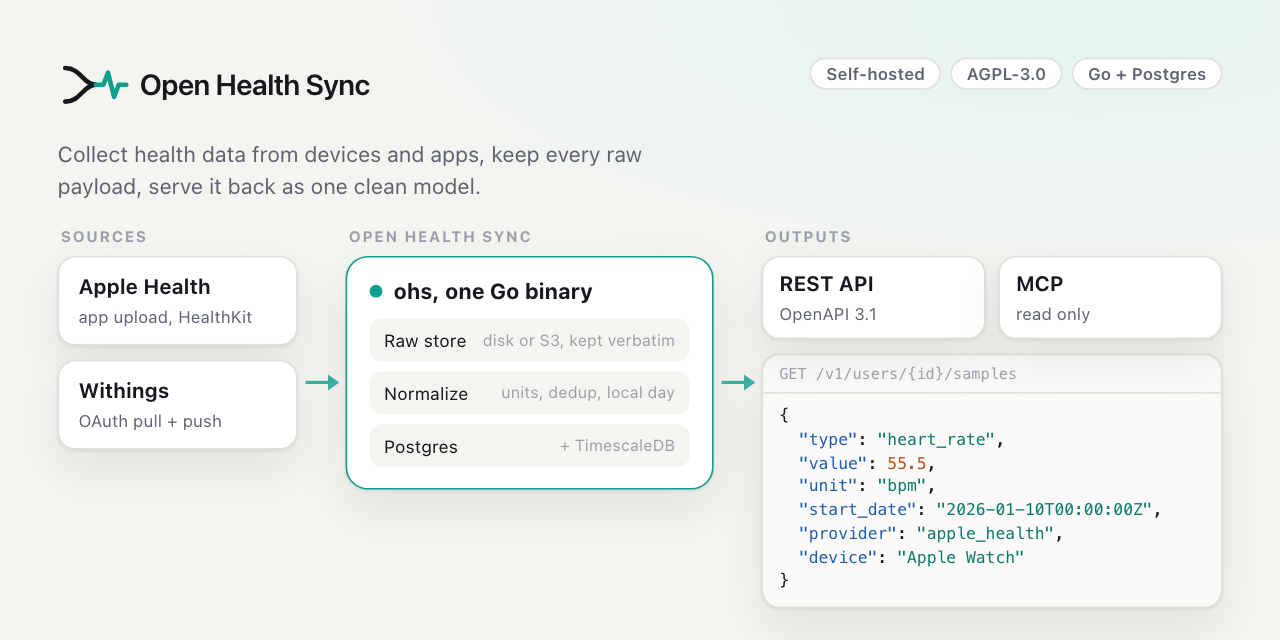
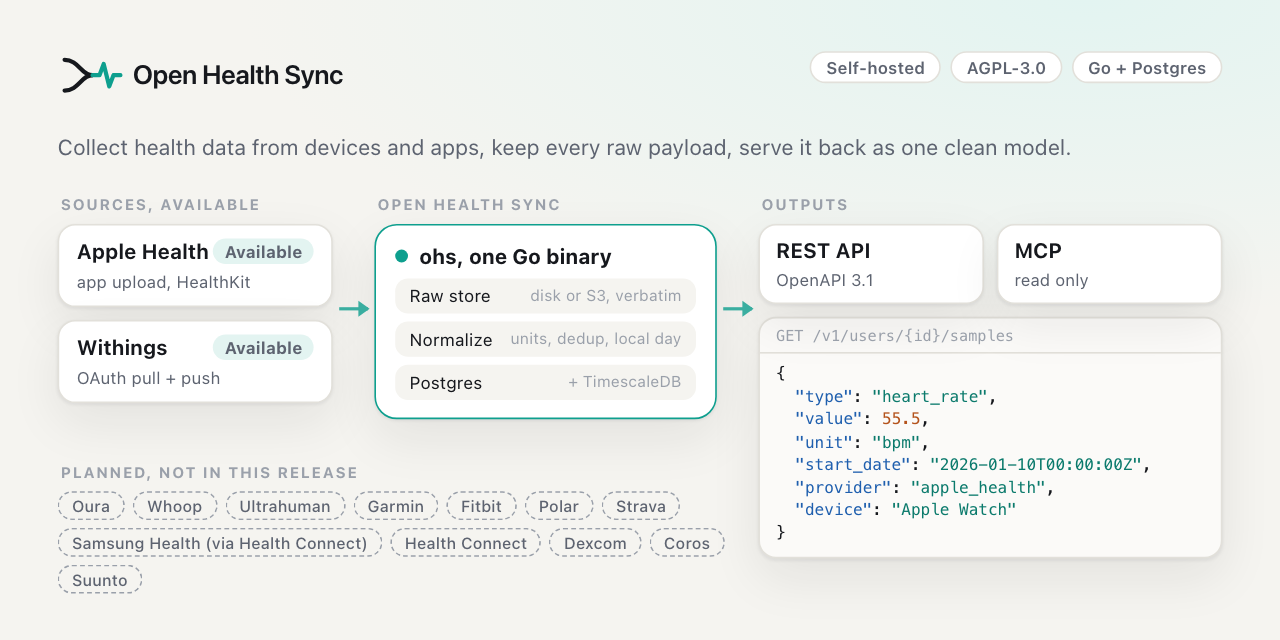
docs: planned providers and integration paths (#15)
Add docs/connectors/README.md with the supported and planned sources:
status, integration path (cloud API, partner program, on-device), data
types, access notes and tracking issues. Only Apple Health and Withings
are available. The README sources table lists every planned source with
an honest status, and the hero and social preview show them as planned
chips next to the two available cards.

diff --git a/docs/connectors/README.md b/docs/connectors/README.md
@@ -1,0 +1,57 @@
+# Connectors
+
+A connector teaches Open Health Sync one source. Two ship in v0.0.1: [Apple Health](apple-health.md)
+and [Withings](withings.md). Every other source below is **planned**: it is not in this release,
+and no code for it runs today. To build one, start with
+[writing a connector](../writing-a-connector.md).
+
+## Supported and planned sources
+
+Status:
+
+- **Available**: ships in this release.
+- **Planned**: on the roadmap, not built yet.
+- **Via Health Connect**: no server-side path we intend to use; the data would come through
+  Android's Health Connect and the planned Kotlin SDK. Planned, not built yet.
+- **No public API**: the vendor publishes no official API we can build on.
+
+Integration paths, as checked in October 2026 (vendors change their programs, so check the
+linked tracking issue or the vendor's developer site before you start):
+
+- **Cloud API, OAuth**: the server pulls from the vendor's cloud with the user's consent, and
+  may receive webhooks. A self-hosted instance needs its own developer app with the vendor.
+- **Partner program**: a cloud API, but only for companies the vendor approves.
+- **On-device**: the data lives on the phone (HealthKit on iOS, Health Connect or a vendor SDK
+  on Android). A mobile app has to read it and upload it.
+
+| Provider | Status | Integration path | Data types | Notes | Tracking |
+|---|---|---|---|---|---|
+| Apple Health | Available | On-device (HealthKit). Your iOS app uploads gzip NDJSON parts to `POST /v1/ingest/apple-health` | Quantities, categories, sleep, workouts and routes, nutrition; ECG and heartbeat series stored | No SDK ships yet: your app implements the [upload contract](apple-health.md). A Swift SDK is planned. Data that other apps and devices write to HealthKit arrives this way too | |
+| Withings | Available, not yet verified with a real account | Cloud API, OAuth 2.0, scheduled pulls and push notifications | Body measurements, activity, sleep, workouts, ECG | Bring your own Withings developer app ([guide](withings.md)) | |
+| Oura | Planned | Cloud API v2, OAuth 2.0 | Sleep, readiness, activity, heart rate, SpO2, workouts | Personal access tokens were retired at the end of 2025. Gen3 and later rings need an active Oura Membership for API access. An app needs Oura's approval past its first 10 users | [#5](https://github.com/soma-intelligence/open-health-sync/issues/5) |
+| Whoop | Planned | Cloud API v2, OAuth 2.0, webhooks (recovery, sleep, workout) | Recovery, sleep, cycles (strain), workouts, body measurements | App registered in the WHOOP Developer Dashboard. The public API has no raw heart rate series or ECG | [#6](https://github.com/soma-intelligence/open-health-sync/issues/6) |
+| Ultrahuman | Planned | Partner program (UltraSignal partner API), OAuth 2.0 | Sleep, HRV, skin temperature, recovery; glucose with the M1 patch | Not self-serve: companies apply and are onboarded. We could not confirm that new partners are accepted | |
+| Garmin | Planned | Partner program (Garmin Connect Developer Program: Health and Activity APIs), push and pull | Daily summaries, sleep, stress, heart rate, activities | For approved business developers only; some data needs a commercial license fee. Third parties report that new applications were paused in 2026: not confirmed by Garmin | [#9](https://github.com/soma-intelligence/open-health-sync/issues/9) |
+| Fitbit | Planned | Cloud API in transition: the legacy Fitbit Web API is replaced by the Google Health API | Activity, sleep, heart rate, SpO2, body | Google: support for the legacy Web API ends on 2026-09-30 and it is turned off on 2026-10-30. The Google Health API is not onboarding new projects yet. On Android, Fitbit data can also reach Health Connect | [#9](https://github.com/soma-intelligence/open-health-sync/issues/9) |
+| Polar | Planned | Cloud API (AccessLink v3), OAuth 2.0 | Exercises, daily activity, sleep, nightly recharge, physical info | Self-serve: a client is created at `admin.polaraccesslink.com` with a Polar Flow account; each user is registered after consent | [#8](https://github.com/soma-intelligence/open-health-sync/issues/8) |
+| Strava | Planned | Cloud API v3, OAuth 2.0, webhooks | Activities (workouts, streams, routes) | A new app serves 1 athlete, 10 after a self-upgrade, more after Strava's review. Webhooks are required to learn about deauthorizations. The 2026 API terms forbid AI training on API data and restrict intermediary platforms; third parties report a paid Strava subscription is now needed for API access | [#7](https://github.com/soma-intelligence/open-health-sync/issues/7) |
+| Coros | Planned | Cloud API, OAuth 2.0; a partner API with webhooks for established platforms | Activities, health metrics, fitness assessments | Partner access is requested from COROS (api@coros.com); full docs are shared after registration | |
+| Suunto | Planned | Partner program (Suunto Cloud API) | Workouts and activity | Companies apply to Suunto's partner program; current terms are not public | |
+| Dexcom | Planned | Cloud API v3, OAuth 2.0 (scope `offline_access`) | Estimated glucose values (EGVs), events, calibrations, devices, alerts | Free sandbox; production beyond a few users needs Dexcom's approval. Separate hosts for the US, EU and Japan | |
+| FreeStyle Libre, Omron | Planned | Not researched yet | Glucose; blood pressure | Contributions of research notes are welcome | |
+| Health Connect | Planned | On-device (Android). Needs the planned Kotlin SDK in your Android app | Steps, heart rate, sleep, exercise, nutrition, body measurements and more | By default an app reads back only 30 days before its first permission grant; older data needs the history permission. Many Android apps write here, which is how Samsung Health, Fitbit and Zepp data can reach it | |
+| Samsung Health | Via Health Connect | On-device only: the Samsung Health Data SDK (partner approval needed to distribute), or Health Connect, which Samsung Health writes to | Activity, sleep, heart rate, skin temperature | The older Samsung Health SDK for Android was deprecated on 2025-07-31. We plan to read Samsung Health data through Health Connect, which needs no Samsung partnership | |
+| Google Fit | Deprecated by Google, use Health Connect (planned Kotlin SDK) | None to build on | | Google closed sign-ups on 2024-05-01 and supports the Fit APIs only until the end of 2026. It points Android apps to Health Connect and cloud apps to the Google Health API | |
+| Zepp / Amazfit | Via Health Connect | On-device: the Zepp app writes to Health Connect on Android and to Apple Health on iOS | Steps, heart rate, sleep, workouts, calories | We found no official public API. On iPhone, what the Zepp app writes to HealthKit is ordinary Apple Health data | |
+| Eight Sleep | No public API | None | | Eight Sleep publishes no official developer API. Community clients call the private app API, which is unsupported and can change without notice; we will not build on it | |
+
+## Contributing a connector
+
+The open connector issues are labeled
+[`connector`](https://github.com/soma-intelligence/open-health-sync/issues?q=is%3Aissue%20is%3Aopen%20label%3Aconnector),
+and the smaller ones
+[`good first issue`](https://github.com/soma-intelligence/open-health-sync/issues?q=is%3Aissue%20is%3Aopen%20label%3A%22good%20first%20issue%22).
+Read [writing a connector](../writing-a-connector.md) first, and use the
+[connector request form](https://github.com/soma-intelligence/open-health-sync/issues/new/choose)
+for a source that is not listed. Tests use recorded fixtures with invented values and a fake of
+the provider API; no test calls a real provider.

diff --git a/README.md b/README.md
@@ -1,7 +1,7 @@
 <a href="#quickstart">
 <picture>
   <source media="(prefers-color-scheme: dark)" srcset="docs/assets/readme/hero-dark.png">
-  <img src="docs/assets/readme/hero-light.png" width="100%" alt="Open Health Sync: Apple Health and Withings flow into one Go binary (raw store, normalize, Postgres) and out as a REST API and a read-only MCP server. The JSON shown is a real heart rate sample read back from the API.">
+  <img src="docs/assets/readme/hero-light.png" width="100%" alt="Open Health Sync: Apple Health and Withings, the two available sources, flow into one Go binary (raw store, normalize, Postgres) and out as a REST API and a read-only MCP server. Oura, Whoop, Ultrahuman, Garmin, Fitbit, Polar, Strava, Samsung Health via Health Connect, Health Connect, Dexcom, Coros and Suunto are listed as planned, not in this release. The JSON shown is a real heart rate sample read back from the API.">
 </picture>
 </a>
 
@@ -101,19 +101,38 @@ Open Health Sync is that layer, written once, with the boring parts done properl
 
 ### Sources and outputs
 
-| Area | Item | Status |
-|---|---|---|
-| Sources | Apple Health (your iOS app uploads HealthKit data, [contract](docs/connectors/apple-health.md)) | Available |
-| Sources | Withings (OAuth, scheduled pulls, push notifications, [guide](docs/connectors/withings.md)) | Available, not yet verified with a real account |
-| Sources | Oura, Whoop, Ultrahuman, Garmin, Fitbit, Polar, Strava, Coros, Suunto | Planned |
-| Sources | Dexcom, Libre, Omron; Health Connect through the Android SDK | Planned |
-| Outputs | REST JSON, described by [api/openapi.yaml](api/openapi.yaml) | Available |
-| Outputs | MCP server, read only ([docs/mcp.md](docs/mcp.md)) | Available |
-| Outputs | Read routes for ECG recordings and heartbeat (RR) series, which are stored today | Planned |
-| Outputs | Outgoing webhooks, FHIR R4, Open mHealth, CSV and Parquet exports | Planned |
-| SDKs | Swift, Kotlin, React Native, Flutter | Planned |
+Two sources ship today. Every other one is planned: on the roadmap, not in this release.
+Integration paths, vendor programs and tracking issues for each:
+[docs/connectors](docs/connectors/README.md).
 
-Planned means on the roadmap and not in this release.
+| Source | Status | How the data arrives |
+|---|---|---|
+| Apple Health | ✅ Available | your iOS app uploads HealthKit data ([contract](docs/connectors/apple-health.md)) |
+| Withings | ✅ Available, not yet verified with a real account | OAuth, scheduled pulls, push notifications ([guide](docs/connectors/withings.md)) |
+| Oura | 🛠 Planned ([#5](https://github.com/soma-intelligence/open-health-sync/issues/5)) | cloud API, OAuth |
+| Whoop | 🛠 Planned ([#6](https://github.com/soma-intelligence/open-health-sync/issues/6)) | cloud API, OAuth, webhooks |
+| Strava | 🛠 Planned ([#7](https://github.com/soma-intelligence/open-health-sync/issues/7)) | cloud API, OAuth, webhooks |
+| Polar | 🛠 Planned ([#8](https://github.com/soma-intelligence/open-health-sync/issues/8)) | cloud API (AccessLink), OAuth |
+| Garmin, Fitbit | 🛠 Planned ([#9](https://github.com/soma-intelligence/open-health-sync/issues/9)) | partner program (Garmin); Fitbit Web API moving to the Google Health API |
+| Ultrahuman, Suunto | 🛠 Planned | partner programs |
+| Coros, Dexcom | 🛠 Planned | cloud API, OAuth |
+| FreeStyle Libre, Omron | 🛠 Planned | not researched yet |
+| Health Connect | 🛠 Planned | on-device, through the planned Kotlin SDK |
+| Samsung Health, Zepp / Amazfit | 🛠 Planned, via Health Connect | their apps write to Health Connect on Android |
+| Google Fit | Deprecated by Google | use Health Connect (planned Kotlin SDK) |
+| Eight Sleep | No public API | nothing official to build on |
+
+Want one sooner? Connectors are self-contained: read
+[writing a connector](docs/writing-a-connector.md) and pick a
+[good first issue](https://github.com/soma-intelligence/open-health-sync/issues?q=is%3Aissue%20is%3Aopen%20label%3A%22good%20first%20issue%22).
+
+| Output | Status |
+|---|---|
+| REST JSON, described by [api/openapi.yaml](api/openapi.yaml) | ✅ Available |
+| MCP server, read only ([docs/mcp.md](docs/mcp.md)) | ✅ Available |
+| Read routes for ECG recordings and heartbeat (RR) series, which are stored today | 🛠 Planned |
+| Outgoing webhooks, FHIR R4, Open mHealth, CSV and Parquet exports | 🛠 Planned |
+| SDKs: Swift, Kotlin, React Native, Flutter | 🛠 Planned |
 
 ## Quickstart
 
@@ -329,7 +348,8 @@ Anything that writes to Apple Health (Apple Watch, iPhone, and the apps and devi
 into HealthKit), through an iOS app that uploads it. No SDK ships yet: your app implements the
 [upload contract](docs/connectors/apple-health.md). Withings scales, watches and sleep devices
 through the user's Withings account; that connector is available but not yet verified with a
-real account. Other providers are [planned](#sources-and-outputs), and the
+real account. Oura, Whoop, Garmin, Fitbit, Polar, Strava, Samsung Health through Health Connect
+and more are [planned](docs/connectors/README.md), not available yet, and the
 [connector request form](https://github.com/soma-intelligence/open-health-sync/issues/new/choose)
 is open.
 
@@ -372,7 +392,8 @@ SDKs. Requests are welcome as GitHub issues, including the connector request for
 - [MCP server](docs/mcp.md): tools, credentials, desktop and remote agents.
 - [Data model](docs/data-model.md): every canonical type and quantity name, with units.
 - [Architecture](docs/architecture.md): roles, pipeline, storage, reliability.
-- Connectors: [Apple Health](docs/connectors/apple-health.md),
+- Connectors: [supported and planned sources](docs/connectors/README.md),
+  [Apple Health](docs/connectors/apple-health.md),
   [Withings](docs/connectors/withings.md), [writing your own](docs/writing-a-connector.md).
 
 ## Contributing
